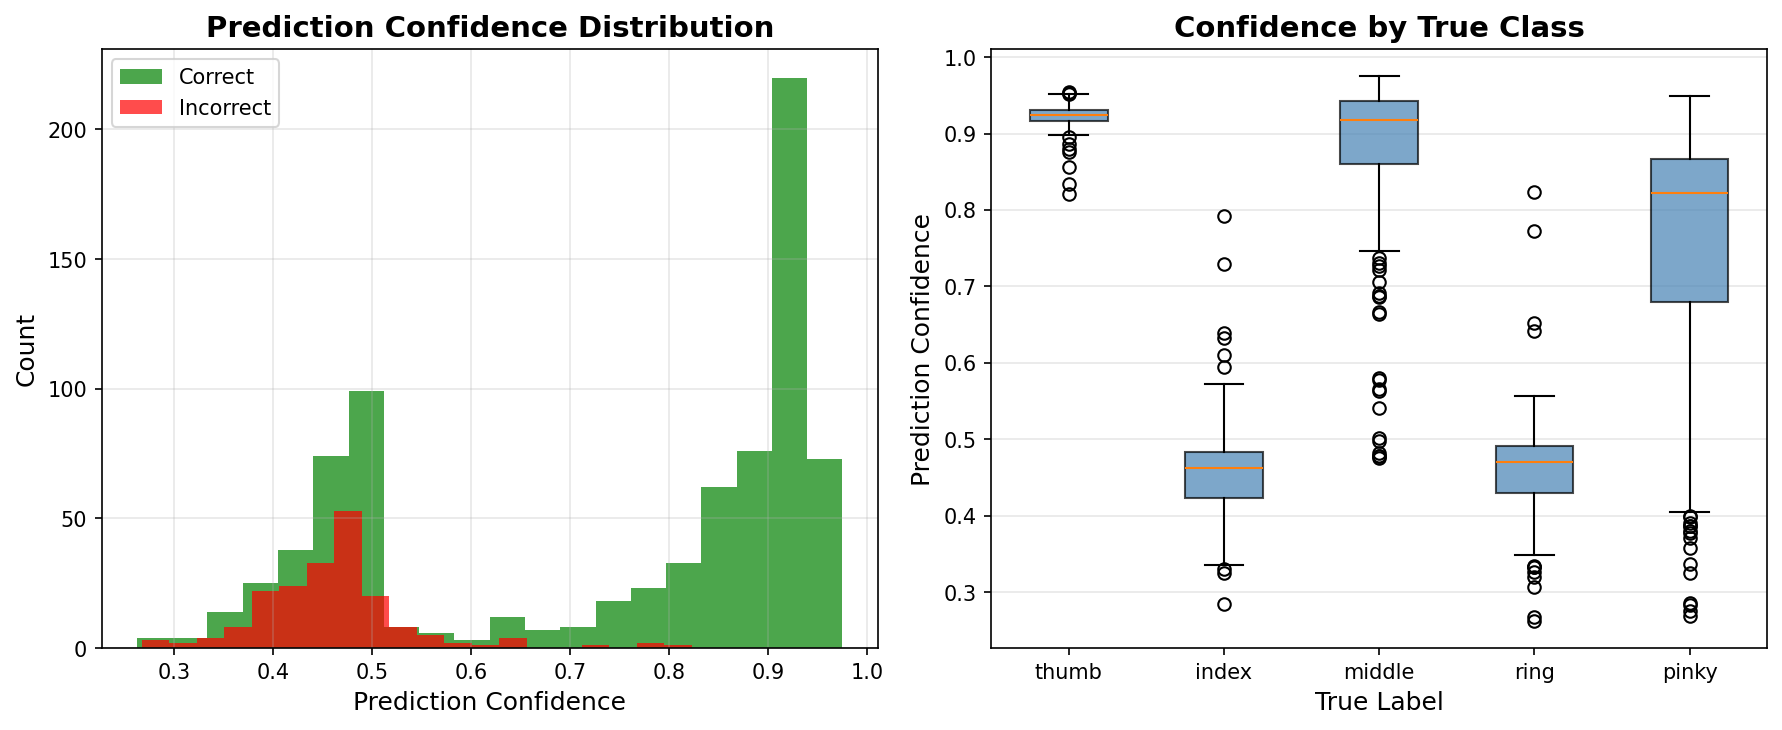
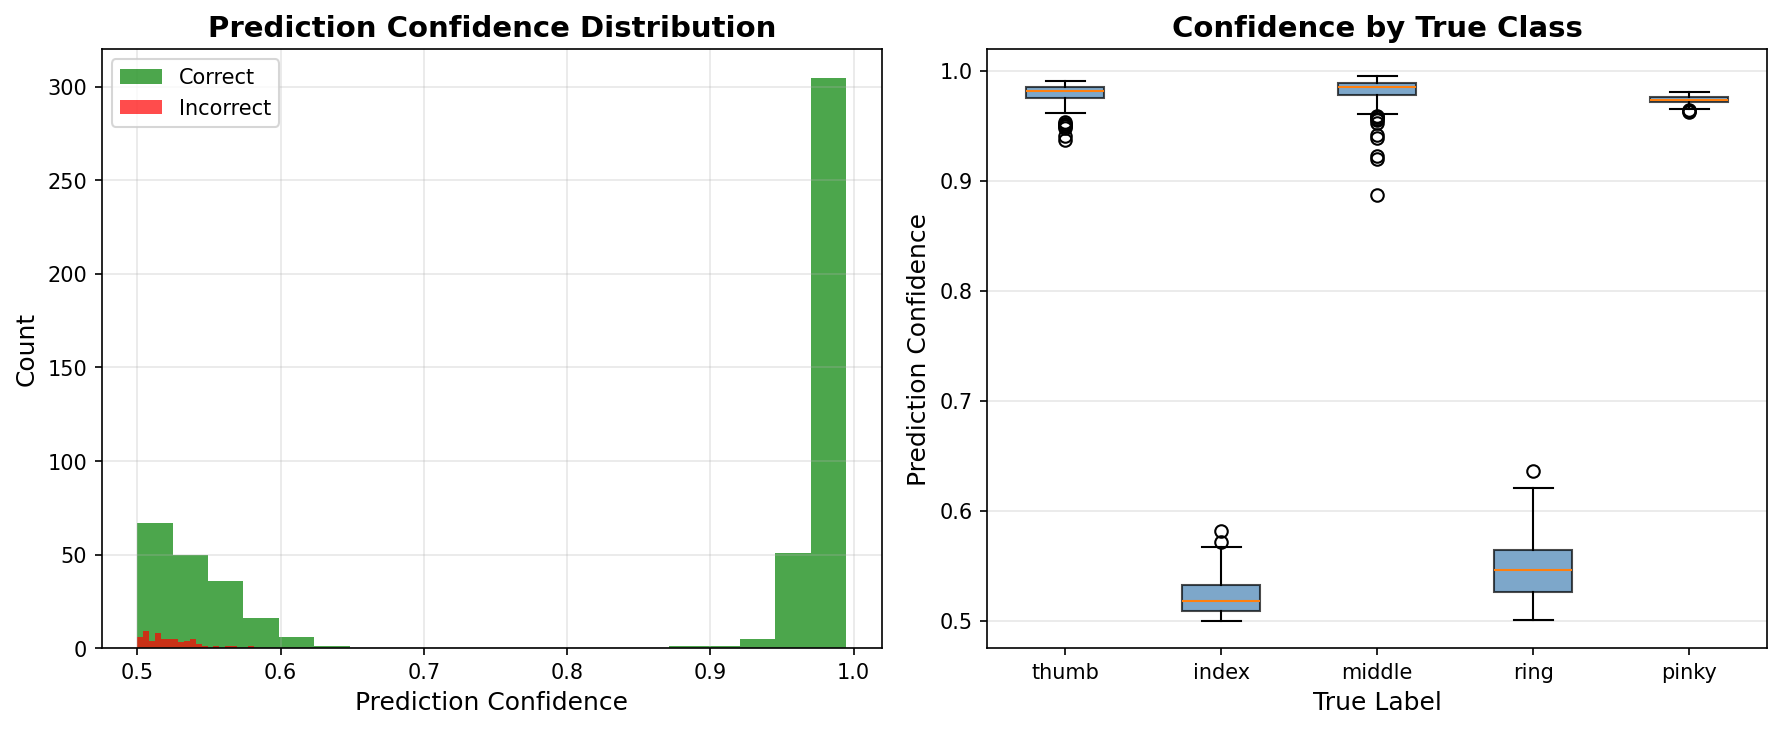
Update training parameters and implement focal loss; enhance evaluation results and add new metrics

diff --git a/src-model/train.py b/src-model/train.py
@@ -5,9 +5,11 @@ Optimized for CPU-based training on multi-core systems
 
 import torch
 import torch.nn as nn
+import torch.nn.functional as F
 import torch.optim as optim
 from torch.utils.data import Dataset, DataLoader
 import numpy as np
+from collections import defaultdict
 import yaml
 import argparse
 from pathlib import Path
@@ -17,6 +19,46 @@ import os
 import multiprocessing
 
 from model import create_model, count_parameters
+
+
+class FocalLoss(nn.Module):
+    """Focal Loss for multi-class classification.
+    Args:
+        gamma (float): Focusing parameter.
+        alpha (Tensor|None): Per-class weight tensor (like class balancing). If None, uniform.
+        reduction (str): 'mean' or 'sum' or 'none'
+    """
+    def __init__(self, gamma=2.0, alpha=None, reduction='mean'):
+        super().__init__()
+        self.gamma = gamma
+        self.alpha = alpha  # Tensor on device or None
+        self.reduction = reduction
+
+        
+    def forward(self, logits, targets):
+        # logits: (B, C), targets: (B,)
+        log_probs = F.log_softmax(logits, dim=1)
+        probs = torch.exp(log_probs)
+        # Gather log_probs for true class
+        targets = targets.view(-1, 1)
+        log_pt = log_probs.gather(1, targets).squeeze(1)  # (B,)
+        pt = probs.gather(1, targets).squeeze(1)
+
+        # Alpha weighting
+        if self.alpha is not None:
+            at = self.alpha.gather(0, targets.squeeze(1))
+        else:
+            at = 1.0
+
+        focal_term = (1 - pt).pow(self.gamma)
+        loss = -at * focal_term * log_pt
+
+        if self.reduction == 'mean':
+            return loss.mean()
+        elif self.reduction == 'sum':
+            return loss.sum()
+        else:
+            return loss
 
 
 class RangeDopplerDataset(Dataset):
@@ -69,6 +111,16 @@ class RangeDopplerDataset(Dataset):
     def _augment(self, x):
         """Apply data augmentation to Range-Doppler map"""
         
+        # Optional slight Gaussian blur to simulate minor defocus/motion
+        sigma = self.aug_config.get('gaussian_blur_sigma', None)
+        if sigma is not None and sigma > 0:
+            try:
+                from scipy.ndimage import gaussian_filter
+                x = gaussian_filter(x, sigma=sigma)
+            except Exception:
+                # If scipy isn't available at runtime, safely skip blur
+                pass
+
         # Add Gaussian noise
         if 'noise_std' in self.aug_config:
             noise = np.random.randn(*x.shape) * self.aug_config['noise_std']
@@ -104,12 +156,24 @@ class Trainer:
         self.device = device
         
         # Loss and optimizer
-        label_smoothing = self.config['training'].get('label_smoothing', 0.1)
-        try:
-            self.criterion = nn.CrossEntropyLoss(label_smoothing=label_smoothing)
-        except TypeError:
-            # Fallback for very old torch versions without label_smoothing
-            self.criterion = nn.CrossEntropyLoss()
+        # Optional class weights to emphasize hard classes
+        class_weights = self.config['training'].get('class_weights', None)
+        if class_weights is not None:
+            class_weights = torch.tensor(class_weights, dtype=torch.float32, device=device)
+
+        loss_name = self.config['training'].get('loss', 'cross_entropy').lower()
+        if loss_name == 'focal':
+            gamma = float(self.config['training'].get('focal_gamma', 2.0))
+            alpha = class_weights  # alpha can be per-class weights
+            self.criterion = FocalLoss(gamma=gamma, alpha=alpha, reduction='mean')
+        else:
+            # Cross-entropy with optional label smoothing
+            label_smoothing = float(self.config['training'].get('label_smoothing', 0.0))
+            try:
+                self.criterion = nn.CrossEntropyLoss(weight=class_weights, label_smoothing=label_smoothing)
+            except TypeError:
+                # Fallback for torch versions without label_smoothing
+                self.criterion = nn.CrossEntropyLoss(weight=class_weights)
         
         # Optimizer
         optimizer_name = config['training']['optimizer'].lower()
@@ -130,11 +194,17 @@ class Trainer:
             raise ValueError(f"Unknown optimizer: {optimizer_name}")
         
         # Learning rate scheduler
+        # Warmup configuration
+        self.base_lr = float(config['training']['learning_rate'])
+        self.warmup_epochs = int(config['training'].get('warmup_epochs', 0))
+
         scheduler_name = config['training'].get('scheduler', 'none').lower()
         if scheduler_name == 'cosine':
+            # Start cosine after warmup
+            t_max = max(1, int(config['training']['epochs']) - self.warmup_epochs)
             self.scheduler = optim.lr_scheduler.CosineAnnealingLR(
                 self.optimizer,
-                T_max=config['training']['epochs']
+                T_max=t_max
             )
         elif scheduler_name == 'step':
             self.scheduler = optim.lr_scheduler.StepLR(
@@ -203,6 +273,10 @@ class Trainer:
         running_loss = 0.0
         correct = 0
         total = 0
+        # Per-class stats
+        num_classes = int(self.config['data']['num_classes'])
+        class_correct = [0 for _ in range(num_classes)]
+        class_total = [0 for _ in range(num_classes)]
         
         with torch.no_grad():
             for inputs, targets in self.val_loader:
@@ -215,11 +289,16 @@ class Trainer:
                 _, predicted = outputs.max(1)
                 total += targets.size(0)
                 correct += predicted.eq(targets).sum().item()
+                # Per-class accumulation
+                for t, p in zip(targets, predicted):
+                    class_total[int(t.item())] += 1
+                    if int(p.item()) == int(t.item()):
+                        class_correct[int(t.item())] += 1
         
         val_loss = running_loss / len(self.val_loader)
         val_acc = 100. * correct / total
         
-        return val_loss, val_acc
+        return val_loss, val_acc, class_correct, class_total
     
     def train(self, num_epochs):
         """Full training loop"""
@@ -233,18 +312,27 @@ class Trainer:
         for epoch in range(1, num_epochs + 1):
             start_time = time.time()
             
+            # Warmup learning rate (epoch-based)
+            if self.warmup_epochs > 0 and epoch <= self.warmup_epochs:
+                warmup_lr = self.base_lr * (epoch / float(self.warmup_epochs))
+                for pg in self.optimizer.param_groups:
+                    pg['lr'] = warmup_lr
+
             # Train
             train_loss, train_acc = self.train_epoch()
             
             # Validate
-            val_loss, val_acc = self.validate()
+            val_loss, val_acc, class_correct, class_total = self.validate()
             
             # Learning rate schedule
-            if self.scheduler is not None:
-                self.scheduler.step()
-                current_lr = self.scheduler.get_last_lr()[0]
+            if self.warmup_epochs > 0 and epoch <= self.warmup_epochs:
+                current_lr = self.optimizer.param_groups[0]['lr']
             else:
-                current_lr = self.config['training']['learning_rate']
+                if self.scheduler is not None:
+                    self.scheduler.step()
+                    current_lr = self.scheduler.get_last_lr()[0]
+                else:
+                    current_lr = self.base_lr
             
             # Track metrics
             self.train_losses.append(train_loss)
@@ -258,6 +346,17 @@ class Trainer:
             print(f"  Train Loss: {train_loss:.4f} | Train Acc: {train_acc:.2f}%")
             print(f"  Val Loss:   {val_loss:.4f} | Val Acc:   {val_acc:.2f}%")
             print(f"  LR: {current_lr:.6f}")
+
+            # Print per-class accuracy for visibility (uses config labels if available)
+            labels = self.config['data'].get('labels', [str(i) for i in range(len(class_total))])
+            try:
+                for i, (c_tot, c_cor) in enumerate(zip(class_total, class_correct)):
+                    if c_tot > 0:
+                        acc_i = 100.0 * c_cor / c_tot
+                        name = labels[i] if i < len(labels) else str(i)
+                        print(f"    - {name:<8}: {acc_i:5.2f}% ({c_cor}/{c_tot})")
+            except Exception:
+                pass
             
             # Save best model
             if val_acc > self.best_val_acc:

diff --git a/src-model/data_generator.py b/src-model/data_generator.py
@@ -86,7 +86,6 @@ class BGT60DataGenerator:
             num_samples=self.num_samples
         )
         
-        # HYBRID APPROACH: Combine physics-based variation with learnable finger characteristics
         # Each finger has characteristic patterns, but they vary spatially to prevent memorization
         
         from rcs_simulator import FINGER_GEOMETRIES
